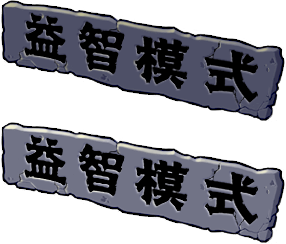
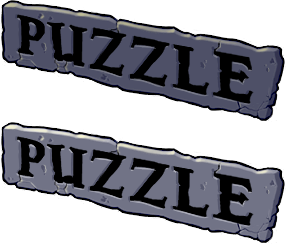
Partial translation of the menu

diff --git a/level/1.js b/level/1.js
@@ -69,8 +69,7 @@ oS.Init(
                                           break;
                                       case 3:
                                           oS.SunNum > 99 &&
-                                              (innerText($("DivTeach"), "Excellent! You\'ve collected
-enough sun for your next plant!"), EditImg($("PointerUD"), "", "images/interface/PointerUP.gif", { left: "50px", top: "60px", visibility: "visible" }), ++k);
+                                              (innerText($("DivTeach"), ("Excellent! You've collected enough sun for your next plant!"), EditImg($("PointerUD"), "", "images/interface/PointerUP.gif", { left: "50px", top: "60px", visibility: "visible" }), ++k);
                                           oSym.addTask(10, arguments.callee, [k]);
                                           break;
                                       default:
